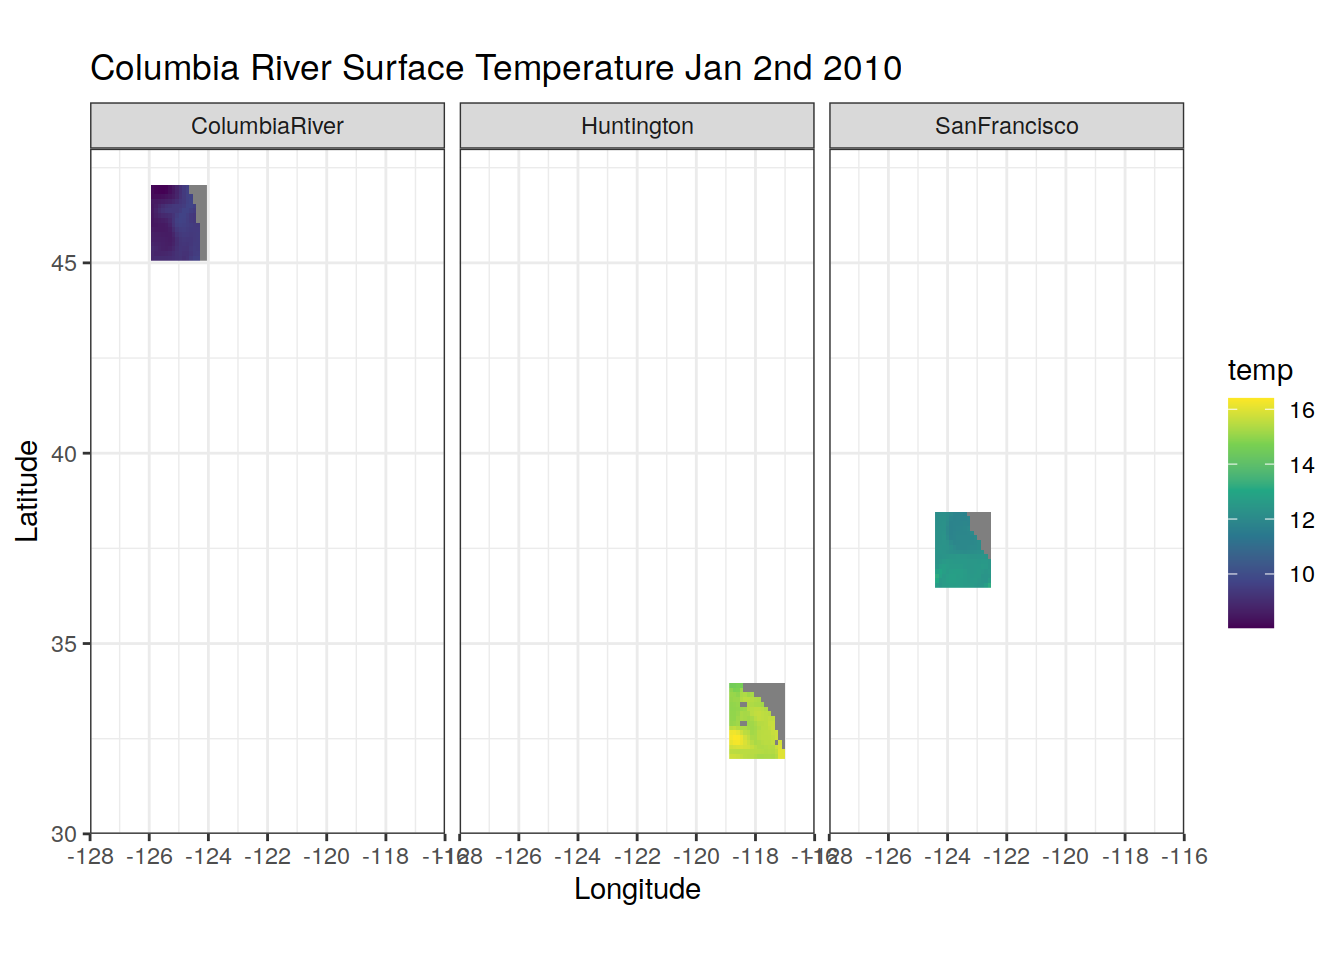
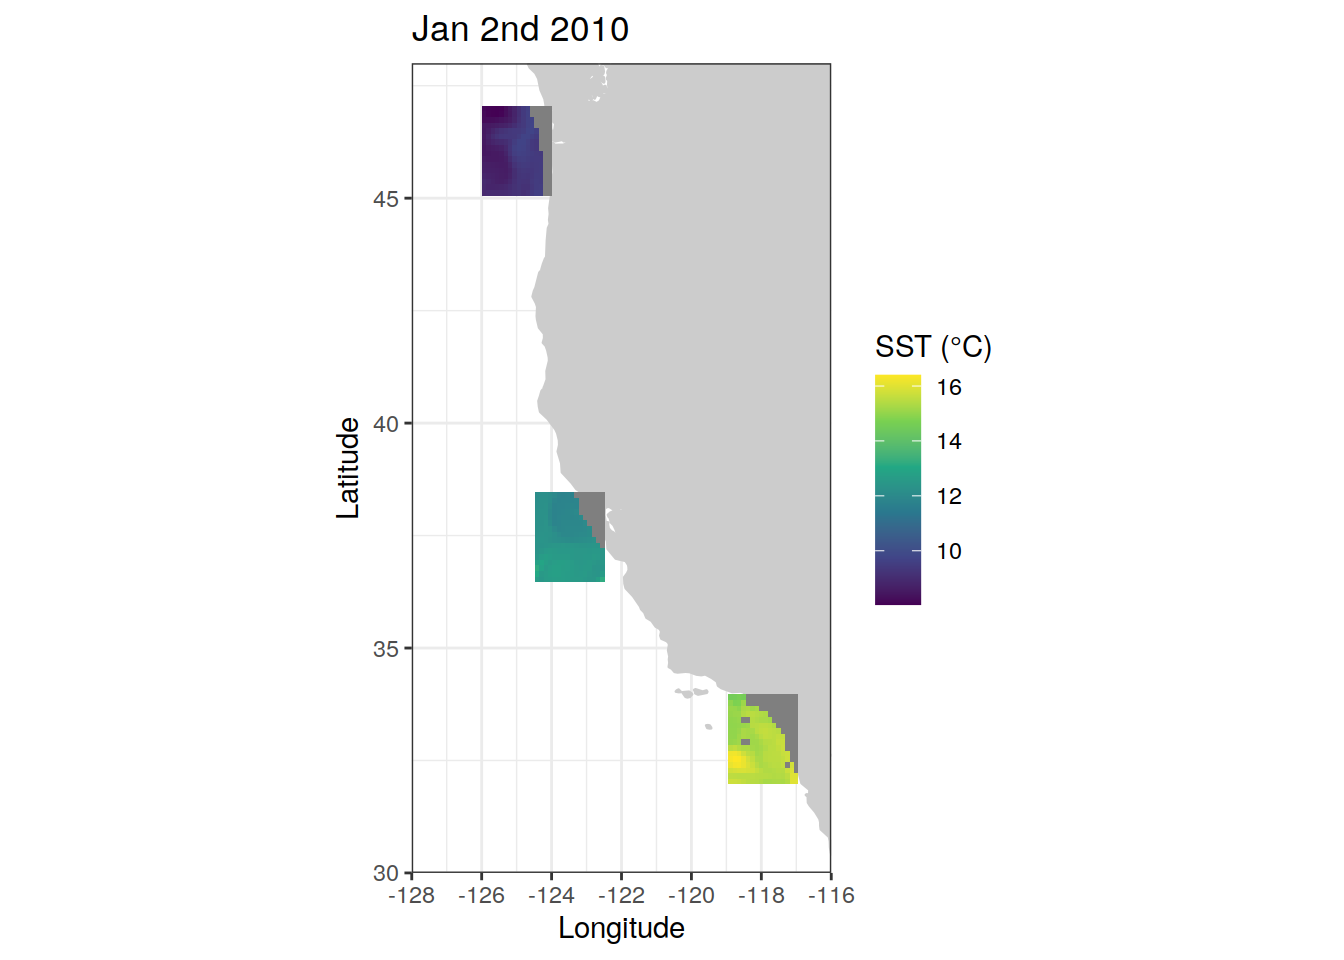
Build site.

diff --git a/docs/temperature_indices.html b/docs/temperature_indices.html
@@ -542,15 +542,15 @@ project makes it easier to run your code on other machines.</p>
 <div class="panel panel-default">
 <div class="panel-heading">
 <p class="panel-title">
-<a data-toggle="collapse" data-parent="#workflowr-checks" href="#strongRepositoryversionstrongahrefhttpsgithubcomjensdanielmuelleroaeccsromstree853675f2ffd2dfa304c2ff59bbe8fa7d35d35ee8targetblank853675fa">
+<a data-toggle="collapse" data-parent="#workflowr-checks" href="#strongRepositoryversionstrongahrefhttpsgithubcomjensdanielmuelleroaeccsromstreec7ce8effdbe9d7981900d3c016e5b469c9357fa8targetblankc7ce8efa">
 <span class="glyphicon glyphicon-ok text-success"
 aria-hidden="true"></span> <strong>Repository version:</strong>
-<a href="https://github.com/jens-daniel-mueller/oae_ccs_roms/tree/853675f2ffd2dfa304c2ff59bbe8fa7d35d35ee8" target="_blank">853675f</a>
+<a href="https://github.com/jens-daniel-mueller/oae_ccs_roms/tree/c7ce8effdbe9d7981900d3c016e5b469c9357fa8" target="_blank">c7ce8ef</a>
 </a>
 </p>
 </div>
 <div
[2 lines of base64/hex data omitted]
 class="panel-collapse collapse">
 <div class="panel-body">
 <p>
@@ -560,7 +560,7 @@ reproducibility.
 </p>
 <p>
 The results in this page were generated with repository version
-<a href="https://github.com/jens-daniel-mueller/oae_ccs_roms/tree/853675f2ffd2dfa304c2ff59bbe8fa7d35d35ee8" target="_blank">853675f</a>.
+<a href="https://github.com/jens-daniel-mueller/oae_ccs_roms/tree/c7ce8effdbe9d7981900d3c016e5b469c9357fa8" target="_blank">c7ce8ef</a>.
 See the <em>Past versions</em> tab to see a history of the changes made
 to the R Markdown and HTML files.
 </p>
@@ -625,6 +625,40 @@ Message
 </tr>
 </thead>
 <tbody>
+<tr>
+<td>
+Rmd
+</td>
+<td>
+<a href="https://github.com/jens-daniel-mueller/oae_ccs_roms/blob/c7ce8effdbe9d7981900d3c016e5b469c9357fa8/analysis/temperature_indices.Rmd" target="_blank">c7ce8ef</a>
+</td>
+<td>
+jens-daniel-mueller
+</td>
+<td>
+2024-11-18
+</td>
+<td>
+rebuild after code review
+</td>
+</tr>
+<tr>
+<td>
+html
+</td>
+<td>
+<a href="https://rawcdn.githack.com/jens-daniel-mueller/oae_ccs_roms/60a6c6fb30315ec3d93f92bc2c80edc557907fd6/docs/temperature_indices.html" target="_blank">60a6c6f</a>
+</td>
+<td>
+jens-daniel-mueller
+</td>
+<td>
+2024-11-18
+</td>
+<td>
+Build site.
+</td>
+</tr>
 <tr>
 <td>
 Rmd
@@ -1955,24 +1989,26 @@ region_temp &lt;-
 
 #plotting the first time point to look at the selected region
 
-region_temp %&gt;% 
-  filter(time == min(time)) %&gt;% 
+region_temp %&gt;%
+  filter(time == min(time)) %&gt;%
   ggplot() +
-  geom_raster(aes(lon,
-                 lat,
-                 fill = temp)) +
-  # borders(&quot;world&quot;, colour = &quot;gray80&quot;, fill = &quot;gray80&quot;) +
-  labs(title = &quot;Columbia River Surface Temperature Jan 2nd 2010&quot;,
-       x = &quot;Longitude&quot;,
-       y = &quot;Latitude&quot;) +
-  theme_bw() + 
-  facet_wrap(~ region) +
-  scale_fill_viridis_c() +
-  coord_quickmap(xlim = c(-128,-116), ylim = c(30, 48), expand = FALSE)</code></pre>
-<pre><code>Warning: Raster pixels are placed at uneven horizontal intervals and will be shifted
-ℹ Consider using `geom_tile()` instead.
-Raster pixels are placed at uneven horizontal intervals and will be shifted
-ℹ Consider using `geom_tile()` instead.</code></pre>
+  annotation_map(map_data(&quot;world&quot;),
+                 colour = &quot;gray80&quot;,
+                 fill = &quot;gray80&quot;) +
+  geom_tile(aes(
+    lon,
+    lat,
+    width = 0.125,
+    height = 0.125,
+    fill = temp
+  )) +
+  labs(title = &quot;Jan 2nd 2010&quot;, x = &quot;Longitude&quot;, y = &quot;Latitude&quot;) +
+  theme_bw() +
+  # facet_wrap(~ region) +
+  scale_fill_viridis_c(name = &quot;SST (°C)&quot;) +
+  coord_quickmap(xlim = c(-128, -116),
+                 ylim = c(30, 48),
+                 expand = FALSE)</code></pre>
 <p><img src="figure/temperature_indices.Rmd/read_data_revised-1.png" width="672" style="display: block; margin: auto;" /></p>
 <p>
 <button type="button" class="btn btn-default btn-xs btn-workflowr btn-workflowr-fig" data-toggle="collapse" data-target="#fig-read_data_revised-1">
